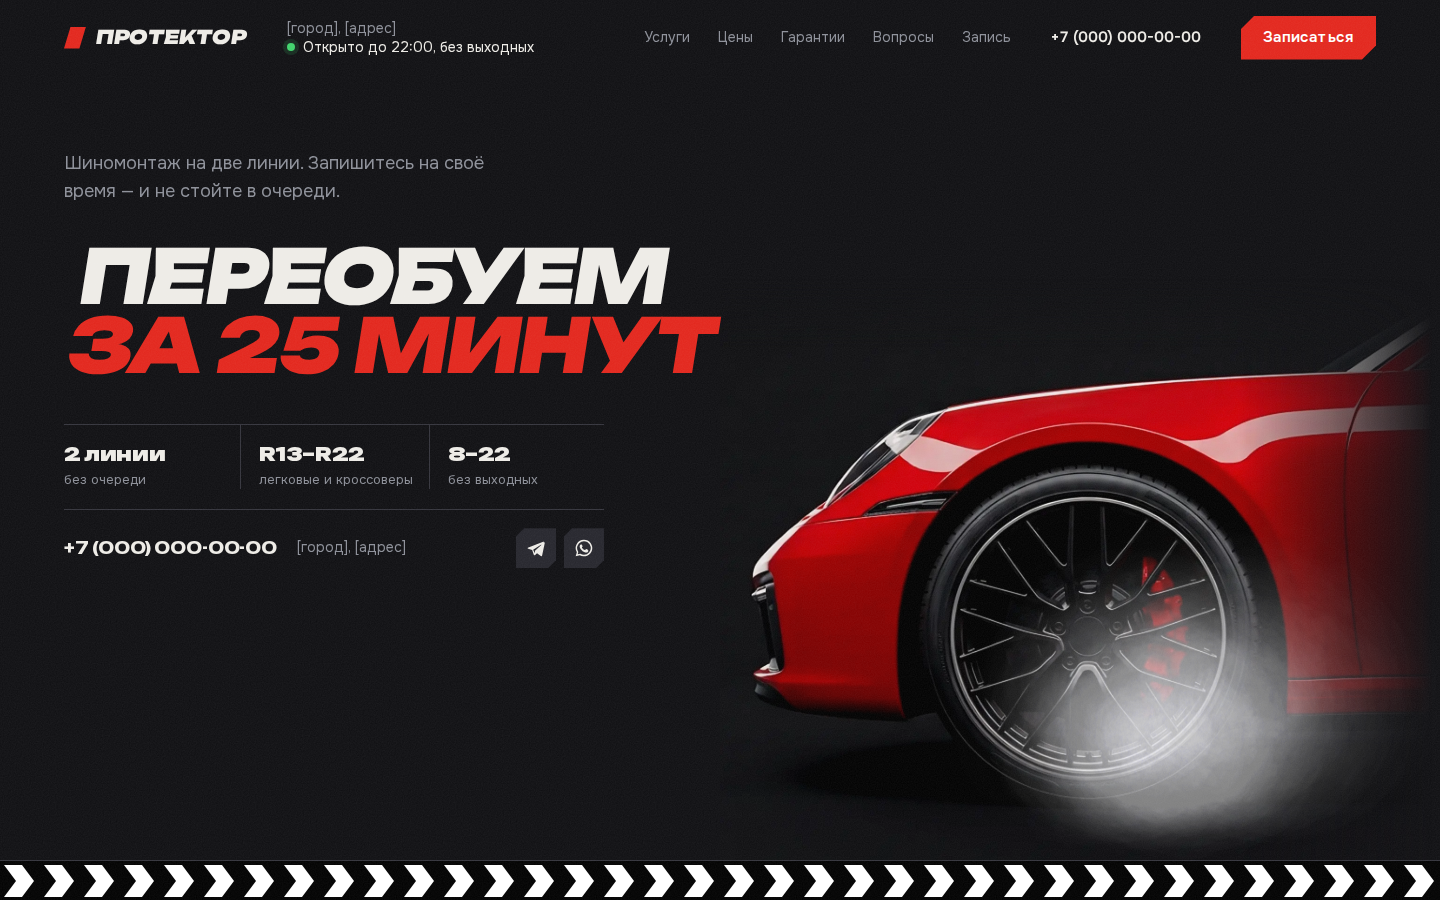
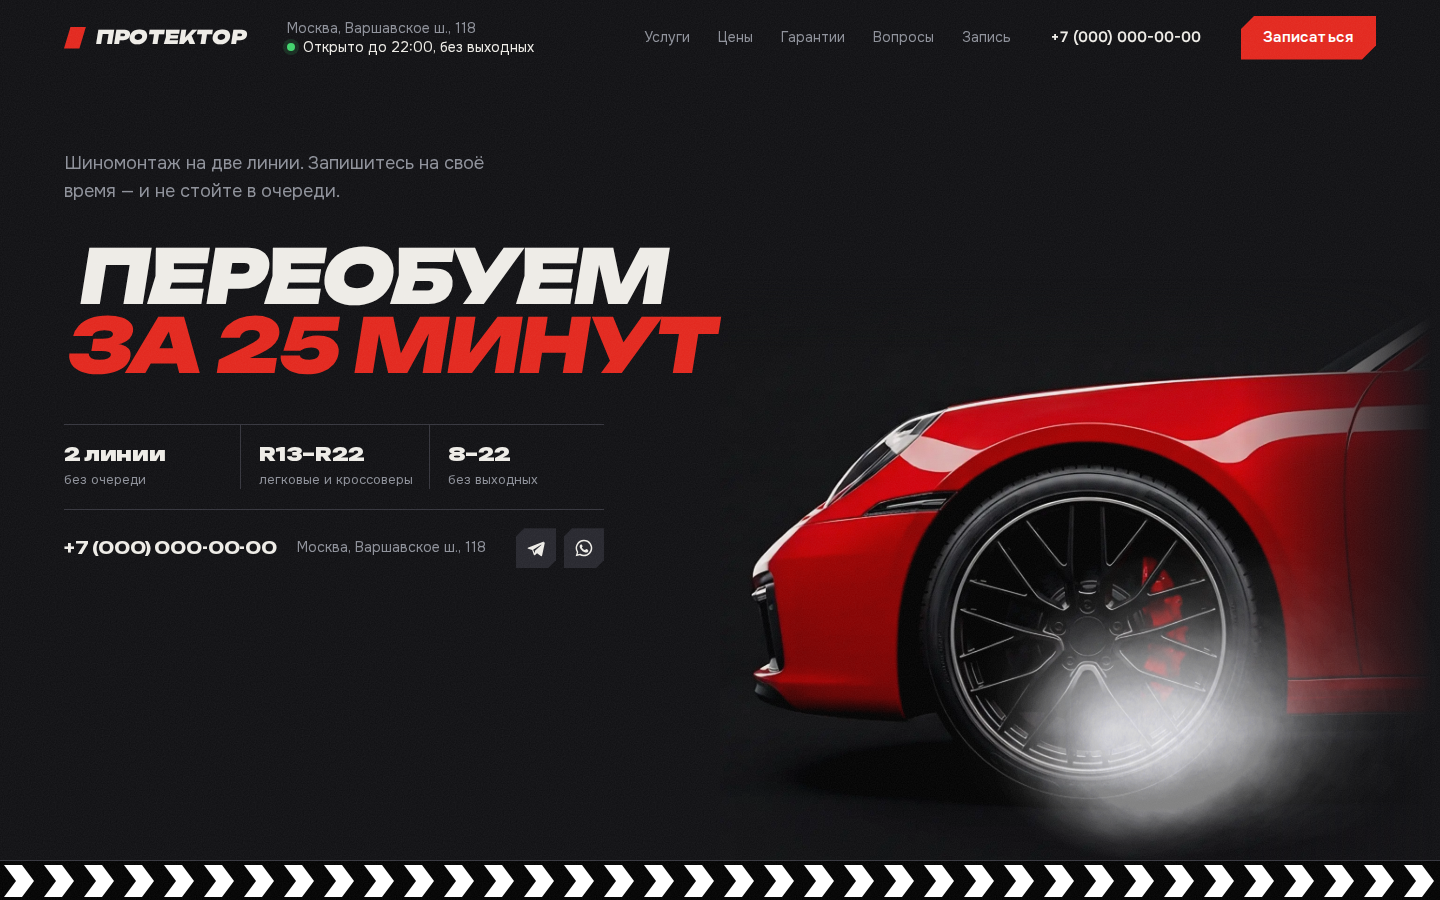
ПРОТЕКТОР: адрес — Москва, Варшавское шоссе, 118; свежие скриншоты компьютерной версии
Claude-Session: https://claude.ai/code/session_01CSYCmsYEsfGfuLAZRJC8KX

diff --git a/protektor/index.html b/protektor/index.html
@@ -38,7 +38,7 @@
       <span class="logo__word">ПРОТЕКТОР</span>
     </a>
     <div class="header__where">
-      <span>[город], [адрес]</span>
+      <span>Москва, Варшавское ш., 118</span>
       <span class="header__hours"><i class="dot" id="open-dot"></i><span id="open-text">Каждый день с 8:00 до 22:00</span></span>
     </div>
     <nav class="header__nav" aria-label="Разделы">
@@ -189,7 +189,7 @@
           <ul class="hero__nums"><li><b>2 линии</b>без очереди</li><li><b>R13–R22</b>легковые и кроссоверы</li><li><b>8–22</b>без выходных</li></ul>
           <div class="hero__contact">
             <a class="hero__tel" href="tel:+70000000000">+7 (000) 000-00-00</a>
-            <span class="hero__addr">[город], [адрес]</span>
+            <span class="hero__addr">Москва, Варшавское ш., 118</span>
             <a class="msg" href="https://t.me/[telegram]" aria-label="Написать в Telegram"><svg viewBox="0 0 24 24" aria-hidden="true"><path d="M21.4 4.2 2.9 11.3c-1.2.5-1.2 1.2-.2 1.5l4.7 1.5 1.8 5.6c.2.6.4.8.9.8.4 0 .6-.2.9-.4l2.2-2.1 4.6 3.4c.8.5 1.4.2 1.6-.8l3-14.2c.3-1.2-.5-1.8-1.3-1.4zM8.6 14l9.3-5.9c.4-.3.8-.1.5.2l-7.6 6.9-.3 3.2z"/></svg></a>
             <a class="msg" href="https://wa.me/70000000000" aria-label="Написать в WhatsApp"><svg viewBox="0 0 24 24" aria-hidden="true"><path d="M12 2a10 10 0 0 0-8.6 15.1L2 22l5-1.3A10 10 0 1 0 12 2zm0 18.2c-1.5 0-3-.4-4.3-1.2l-.3-.2-3 .8.8-2.9-.2-.3A8.2 8.2 0 1 1 12 20.2zm4.5-6.1c-.2-.1-1.5-.7-1.7-.8-.2-.1-.4-.1-.6.1l-.8 1c-.1.2-.3.2-.5.1a6.7 6.7 0 0 1-3.3-2.9c-.3-.4.2-.4.7-1.3.1-.2 0-.3 0-.4l-.8-1.8c-.2-.5-.4-.4-.6-.4h-.5c-.2 0-.4.1-.7.3-.2.3-.9.9-.9 2.2s.9 2.5 1 2.7c.1.2 1.8 2.8 4.4 3.9 1.6.7 2.3.8 3.1.6.5-.1 1.5-.6 1.7-1.2.2-.6.2-1.1.2-1.2-.1-.1-.3-.2-.6-.3z"/></svg></a>
           </div>
@@ -688,15 +688,15 @@
       <div class="wrap where__inner">
         <div class="where__text">
           <h2 class="display where__title" id="where-title">Как доехать</h2>
-          <p class="where__addr">[город], [адрес]</p>
+          <p class="where__addr">Москва, Варшавское шоссе, 118</p>
           <ul class="where__list">
             <li><b>Ориентир</b><span>[например: за заправкой, въезд со двора]</span></li>
             <li><b>Парковка</b><span>[где оставить машину, если приехали заранее]</span></li>
             <li><b>Часы</b><span>Каждый день с 8:00 до 22:00</span></li>
           </ul>
           <div class="where__btns">
-            <a class="cut cut--red" href="https://yandex.ru/maps/?text=[адрес]" target="_blank" rel="noopener">Открыть в Яндекс Картах</a>
-            <a class="cut cut--line" href="https://2gis.ru/search/[адрес]" target="_blank" rel="noopener">2ГИС</a>
+            <a class="cut cut--red" href="https://yandex.ru/maps/?text=%D0%9C%D0%BE%D1%81%D0%BA%D0%B2%D0%B0%2C%20%D0%92%D0%B0%D1%80%D1%88%D0%B0%D0%B2%D1%81%D0%BA%D0%BE%D0%B5%20%D1%88%D0%BE%D1%81%D1%81%D0%B5%2C%20118" target="_blank" rel="noopener">Открыть в Яндекс Картах</a>
+            <a class="cut cut--line" href="https://2gis.ru/search/%D0%9C%D0%BE%D1%81%D0%BA%D0%B2%D0%B0%2C%20%D0%92%D0%B0%D1%80%D1%88%D0%B0%D0%B2%D1%81%D0%BA%D0%BE%D0%B5%20%D1%88%D0%BE%D1%81%D1%81%D0%B5%2C%20118" target="_blank" rel="noopener">2ГИС</a>
           </div>
           <div class="where__msgs">
             <span>Удобнее написать?</span>
@@ -729,7 +729,7 @@
       <div class="footer__cols">
         <div>
           <p class="footer__k">Где</p>
-          <p>[город], [адрес]</p>
+          <p>Москва, Варшавское шоссе, 118</p>
         </div>
         <div>
           <p class="footer__k">Когда</p>
@@ -763,7 +763,7 @@
       <a href="#wheel"><b>Гарантии</b><small>12 месяцев</small></a>
       <a href="#faq"><b>Вопросы</b><small>коротко</small></a>
       <a href="#book"><b>Запись</b><small>7 дней вперёд</small></a>
-      <a href="#where"><b>Как доехать</b><small>[адрес]</small></a>
+      <a href="#where"><b>Как доехать</b><small>Варшавское шоссе, 118</small></a>
     </nav>
     <div class="msheet__acts">
       <a class="cut cut--line" href="tel:+70000000000"><svg viewBox="0 0 24 24" aria-hidden="true"><path d="M6.6 10.8a15.2 15.2 0 0 0 6.6 6.6l2.2-2.2a1 1 0 0 1 1-.25 11.4 11.4 0 0 0 3.6.57 1 1 0 0 1 1 1V20a1 1 0 0 1-1 1A17 17 0 0 1 3 4a1 1 0 0 1 1-1h3.5a1 1 0 0 1 1 1c0 1.25.2 2.45.57 3.57a1 1 0 0 1-.25 1z"/></svg>Позвонить</a>

diff --git a/protektor/script.js b/protektor/script.js
@@ -206,7 +206,7 @@
     { what: 'Ремонт прокола', name: 'Ремонт бокового пореза', note: 'после осмотра', price: 1500, photo: 'porez', from: true },
     { what: 'Правка дисков', name: 'Правка литого диска', note: 'за диск', price: 1500, photo: 'disk', from: true },
     { what: 'Хранение шин', name: 'Сезонное хранение', note: 'за комплект', price: 3500, photo: 'hranenie', key: 'storage' },
-    { what: 'Переобувка', mobile: true, name: 'Выезд к клиенту', note: 'по [город]', price: 3000, photo: 'vyezd', from: true },
+    { what: 'Переобувка', mobile: true, name: 'Выезд к клиенту', note: 'по Москве', price: 3000, photo: 'vyezd', from: true },
     { what: 'Переобувка', name: 'Азот в шины', note: 'для всех клиентов', free: true, photo: 'azot' }
   ];
   var rub = function (n) { return n.toLocaleString('ru-RU') + ' ₽'; };

diff --git a/protektor/privacy.html b/protektor/privacy.html
@@ -21,7 +21,7 @@
     <h1>Политика конфиденциальности</h1>
     <p>[Шаблон — замените данными оператора и согласуйте с юристом.]</p>
     <h2>Кто обрабатывает данные</h2>
-    <p>[ИП или ООО «Название»], ИНН [—], ОГРН [—], адрес: [город], [адрес].</p>
+    <p>[ИП или ООО «Название»], ИНН [—], ОГРН [—], адрес: Москва, Варшавское шоссе, 118.</p>
     <h2>Какие данные мы получаем</h2>
     <p>Имя, номер телефона и, если вы заказали выезд, адрес, — из формы записи на сайте.</p>
     <h2>Зачем</h2>
